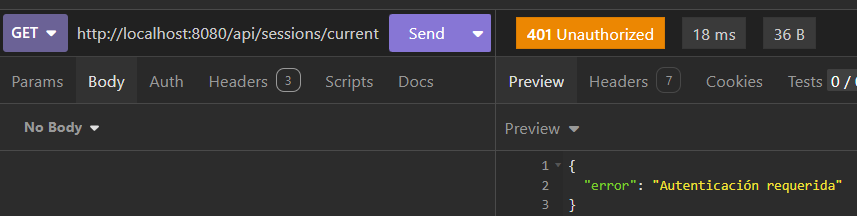
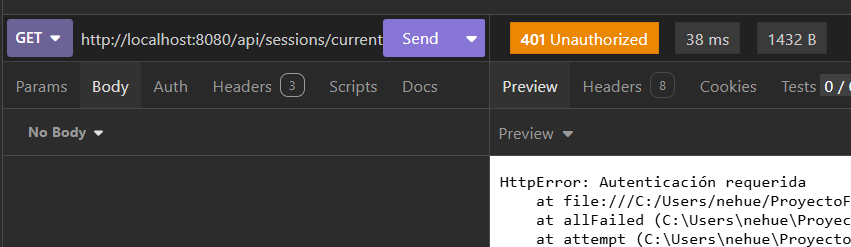
added auth error messages & codes

diff --git a/src/config/passport.config.js b/src/config/passport.config.js
@@ -1,11 +1,8 @@
 import passport from 'passport'
 import { Strategy as LocalStrategy } from 'passport-local'
 import { Strategy as JwTStrategy, ExtractJwt } from 'passport-jwt'
-import UserModel from '../models/user.model.js'
-import usersDao from '../dao/users.dao.js'
-import { createHash, isValidPassword } from '../utils/hash.js'
+import { isValidPassword } from '../utils/hash.js'
 import userService from '../services/user.service.js'
-import { verifyToken } from '../utils/jwt.js'
 import usersRepository from '../repositories/users.repository.js'
 import { isValidEmail, normalizeEmail } from '../utils/emailFunctions.js'
 
@@ -13,7 +10,8 @@ import { isValidEmail, normalizeEmail } from '../utils/emailFunctions.js'
 passport.use("register", new LocalStrategy({
     usernameField: "email",
     passwordField: "password",
-    passReqToCallback: true      
+    passReqToCallback: true,
+    badRequestMessage: "Todos los campos son obligatorios"
   },
 
   async (req, incomingEmail, password, done) => {
@@ -21,21 +19,20 @@ passport.use("register", new LocalStrategy({
       const {first_name, last_name} = req.body;
 
       if (!first_name || !last_name || !incomingEmail || !password) {
-        return done(null, false, {message: "Todos los campos son obligatorios"});
+        return done(null, false, {statusCode: 400, message: "Todos los campos son obligatorios"});
       }
 
       const normalizedEmail = normalizeEmail(incomingEmail);
 
       if (!isValidEmail(normalizedEmail)) {
-        return done(null, false, {message: "El formato del email no es válido"});
+        return done(null, false, {statusCode: 400, message: "El formato del email no es válido"});
       }
 
       if (password.length < 8) {
-        return done(null, false, {message: "La contraseña debe tener al menos 8 caracteres"});
+        return done(null, false, {statusCode: 400, message: "La contraseña debe tener al menos 8 caracteres"});
       }
 
       const email = normalizedEmail;
-      console.log("wee woo pog")
       
       const newUser = await userService.registerUser({ first_name, last_name, email, password });
 
@@ -44,7 +41,7 @@ passport.use("register", new LocalStrategy({
     } catch (error) {
       
       if (error.message === "EMAIL_EXISTS"){
-        return done(null, false, {message: "Ya existe un usuario registrado con ese email"});
+        return done(null, false, {statusCode: 409, message: "Ya existe un usuario registrado con ese email"});
       }
 
       return done(error);
@@ -55,6 +52,7 @@ passport.use("register", new LocalStrategy({
 passport.use("login", new LocalStrategy({
     usernameField: "email",
     passwordField: "password",
+    badRequestMessage: "Email y contraseña son obligatorios"
   },
 
   async (email, password, done) => {
@@ -62,19 +60,19 @@ passport.use("login", new LocalStrategy({
       const normalizedEmail = normalizeEmail(email);
   
       if (!isValidEmail(normalizedEmail)) {
-        return done(null, false, { message: "El formato del email no es válido"})
+        return done(null, false, {statusCode: 400, message: "El formato del email no es válido"})
       }
   
       const user = await usersRepository.getByEmail(normalizedEmail);
   
       if (!user){
-        return done(null, false, { message: "Credenciales invalidas"});
+        return done(null, false, {statusCode: 401, message: "Credenciales invalidas"});
       }
   
       const validPassword = await isValidPassword(password, user.password);
   
       if (!validPassword){
-        return done(null, false, { message: "Credenciales invalidas"});
+        return done(null, false, {statusCode: 401, message: "Credenciales invalidas"});
       }
   
       return done(null, user);

diff --git a/src/routes/sessions.routes.js b/src/routes/sessions.routes.js
@@ -1,15 +1,14 @@
 import { Router } from 'express'
 import { register, login, getCurrentUser, logout } from '../controllers/sessions.controller.js'
-import { auth } from '../middlewares/auth.middleware.js'
-import passport from '../config/passport.config.js'
+import { authenticate } from '../middlewares/passport.middleware.js';
 
 const router = Router()
 
-router.post('/register', passport.authenticate("register", { session: false }), register);
+router.post('/register', authenticate('register', 400, 'Todos los campos son obligatorios'), register);
 
-router.post('/login', passport.authenticate("login", { session: false }), login);
+router.post('/login', authenticate('login', 400, 'Email y contraseña son obligatorios'), login);
 
-router.get('/current', passport.authenticate("current", { session: false }), getCurrentUser);
+router.get('/current', authenticate('current', 401, 'Autenticación requerida'), getCurrentUser);
 
 router.post('/logout', logout)
 

diff --git a/src/middlewares/passport.middleware.js b/src/middlewares/passport.middleware.js
@@ -1,0 +1,24 @@
+import passport from '../config/passport.config.js';
+import { HttpError } from '../utils/errors.js';
+
+export const authenticate = (strategy, fallbackStatus, fallbackMessage) => (
+  req,
+  res,
+  next,
+) => {
+  passport.authenticate(strategy, { session: false }, (error, user, info) => {
+    if (error) {
+      return next(error);
+    }
+
+    if (!user) {
+      return next(new HttpError(
+        info?.statusCode ?? fallbackStatus,
+        info?.statusCode ? info.message : fallbackMessage,
+      ));
+    }
+
+    req.user = user;
+    return next();
+  })(req, res, next);
+};

diff --git a/src/middlewares/error.middleware.js b/src/middlewares/error.middleware.js
@@ -1,0 +1,19 @@
+export const errorHandler = (error, req, res, next) => {
+  if (res.headersSent) {
+    return next(error);
+  }
+
+  const statusCode = error.statusCode ?? 500;
+  const message = statusCode === 500
+    ? 'Error interno del servidor'
+    : error.message;
+
+  if (statusCode === 500) {
+    console.error(error);
+  }
+
+  return res.status(statusCode).json({
+    status: 'error',
+    message,
+  });
+};

diff --git a/src/utils/errors.js b/src/utils/errors.js
@@ -1,0 +1,7 @@
+export class HttpError extends Error {
+  constructor(statusCode, message) {
+    super(message);
+    this.name = 'HttpError';
+    this.statusCode = statusCode;
+  }
+}

diff --git a/readme.md b/readme.md
@@ -1,4 +1,4 @@
-# Proyecto Final Coderhouse - Backend II (Pre-Entrega 3)
+# Proyecto Final Coderhouse - Backend II (Pre-Entrega 4)
 
 ## Nombre del Proyecto
 ParkEvent Solutions
@@ -149,11 +149,84 @@ Probar el endpoint preliminar de creación:
 
 Para los procesos de registro, login, sesión y logout se utiliza **passport.js**, que es un programa intermedio (middleware) de autenticación para Node.js que se integra de forma sencilla con Express.js. Su función principal es verificar la identidad de los usuarios en una aplicación web mediante módulos independientes llamados "estrategias".
 
-El proyecto implementa tres estrategias de Passport.js:
+### Estrategias de Passport.js
 
-- **Local (register)**: Valida y registra nuevos usuarios con email y contraseña. Incluye validaciones de email, longitud de contraseña (mín. 8 caracteres) y prevención de duplicados.
-- **Local (login)**: Autentica usuarios verificando email y contraseña contra los datos almacenados.
-- **JWT (current)**: Valida el JWT almacenado en cookies para identificar al usuario actual en las peticiones autenticadas.
+El proyecto implementa tres estrategias de Passport.js, configuradas en [src/config/passport.config.js](src/config/passport.config.js):
+
+#### 1. Estrategia "register" (Local Strategy)
+Valida y registra nuevos usuarios. Realiza las siguientes validaciones:
+- Verifica que se proporcionen todos los campos requeridos: `first_name`, `last_name`, `email` y `password`
+- Normaliza y valida el formato del email mediante funciones de `emailFunctions.js`
+- Valida que la contraseña tenga una longitud mínima de 8 caracteres
+- Previene duplicados: verifica que no exista otro usuario con el mismo email
+- Utiliza la función `registerUser()` del `user.service.js` para crear el registro en la base de datos
+
+Si alguna validación falla, Passport retorna un error con un `statusCode` y `message` específicos que el `error.middleware.js` captura y formatea para la respuesta HTTP.
+
+#### 2. Estrategia "login" (Local Strategy)
+Autentica usuarios verificando sus credenciales:
+- Normaliza el email ingresado usando `emailFunctions.js`
+- Valida que el formato del email sea correcto
+- Busca el usuario en la base de datos mediante `usersRepository.getByEmail()`
+- Compara la contraseña ingresada con la contraseña hasheada en la BD usando `isValidPassword()` de `hash.js`
+- Retorna un mensaje genérico para credenciales inválidas (previene ataques de información sobre existencia de usuarios)
+
+#### 3. Estrategia "current" (JWT Strategy)
+Valida el JWT almacenado en cookies para identificar al usuario en peticiones autenticadas:
+- Extrae el token JWT desde las cookies usando `cookieExtractor`
+- Verifica la validez del token mediante la clave secreta `JWT_SECRET_KEY`
+- Decodifica el payload del token para obtener el ID del usuario
+- Busca el usuario en la base de datos mediante `usersRepository.getById()`
+- Permite identificar al usuario actual en rutas protegidas
+
+### Manejo de errores con `errors.js`
+
+El archivo [src/utils/errors.js](src/utils/errors.js) define la clase `HttpError` que extiende la clase `Error` de JavaScript y añade propiedades específicas para HTTP:
+
+```javascript
+export class HttpError extends Error {
+  constructor(statusCode, message) {
+    super(message);
+    this.name = 'HttpError';
+    this.statusCode = statusCode;
+  }
+}
+```
+
+Esta clase se utiliza en toda la aplicación para lanzar errores con información estructurada:
+- **statusCode**: El código HTTP a retornar (401, 409, 400, 500, etc.)
+- **message**: El mensaje descriptivo del error
+- **name**: Identifica el tipo de error
+
+En el contexto de Passport:
+- Las estrategias retornan objetos con `statusCode` y `message` via el callback `done()`
+- El `error.middleware.js` captura estos errores y extrae el `statusCode` para construir la respuesta HTTP
+- Los errores internos (5xx) ocultan información sensible en producción
+
+### Middlewares de autenticación y error handling
+
+#### `auth.middleware.js` - Protección de rutas
+El middleware [src/middlewares/auth.middleware.js](src/middlewares/auth.middleware.js) se utiliza en las rutas que requieren autenticación:
+- Verifica que exista un token en las cookies (`req.cookies.currentUser`)
+- Valida el token usando `verifyToken()` de `jwt.js`
+- Si el token es válido, extrae el payload y adjunta los datos del usuario a `req.user`
+- Si no hay token o es inválido, retorna un error 401 (Unauthorized)
+- Permite que solo usuarios autenticados accedan a recursos protegidos
+
+#### `error.middleware.js` - Centralización de errores
+El middleware [src/middlewares/error.middleware.js](src/middlewares/error.middleware.js) es el último middleware en la cadena y captura todos los errores:
+- Verifica si ya se envió una respuesta (si es así, delega al siguiente middleware)
+- Extrae el `statusCode` del error (usa 500 como default)
+- En producción, oculta los mensajes de errores 500 por seguridad
+- Registra los errores 500 en la consola para debugging
+- Retorna una respuesta JSON estructurada con el status y mensaje del error
+
+**Flujo de integración:**
+1. Passport intenta autenticar al usuario usando la estrategia correspondiente
+2. Si hay error, Passport retorna un objeto con `statusCode` y `message`
+3. El controlador lanza un `HttpError` con esa información
+4. El `error.middleware.js` captura el error y lo formatea
+5. La respuesta HTTP se envía con el código y mensaje apropiado
 
 ## Como registrar un usuario nuevo en el sistema
 
